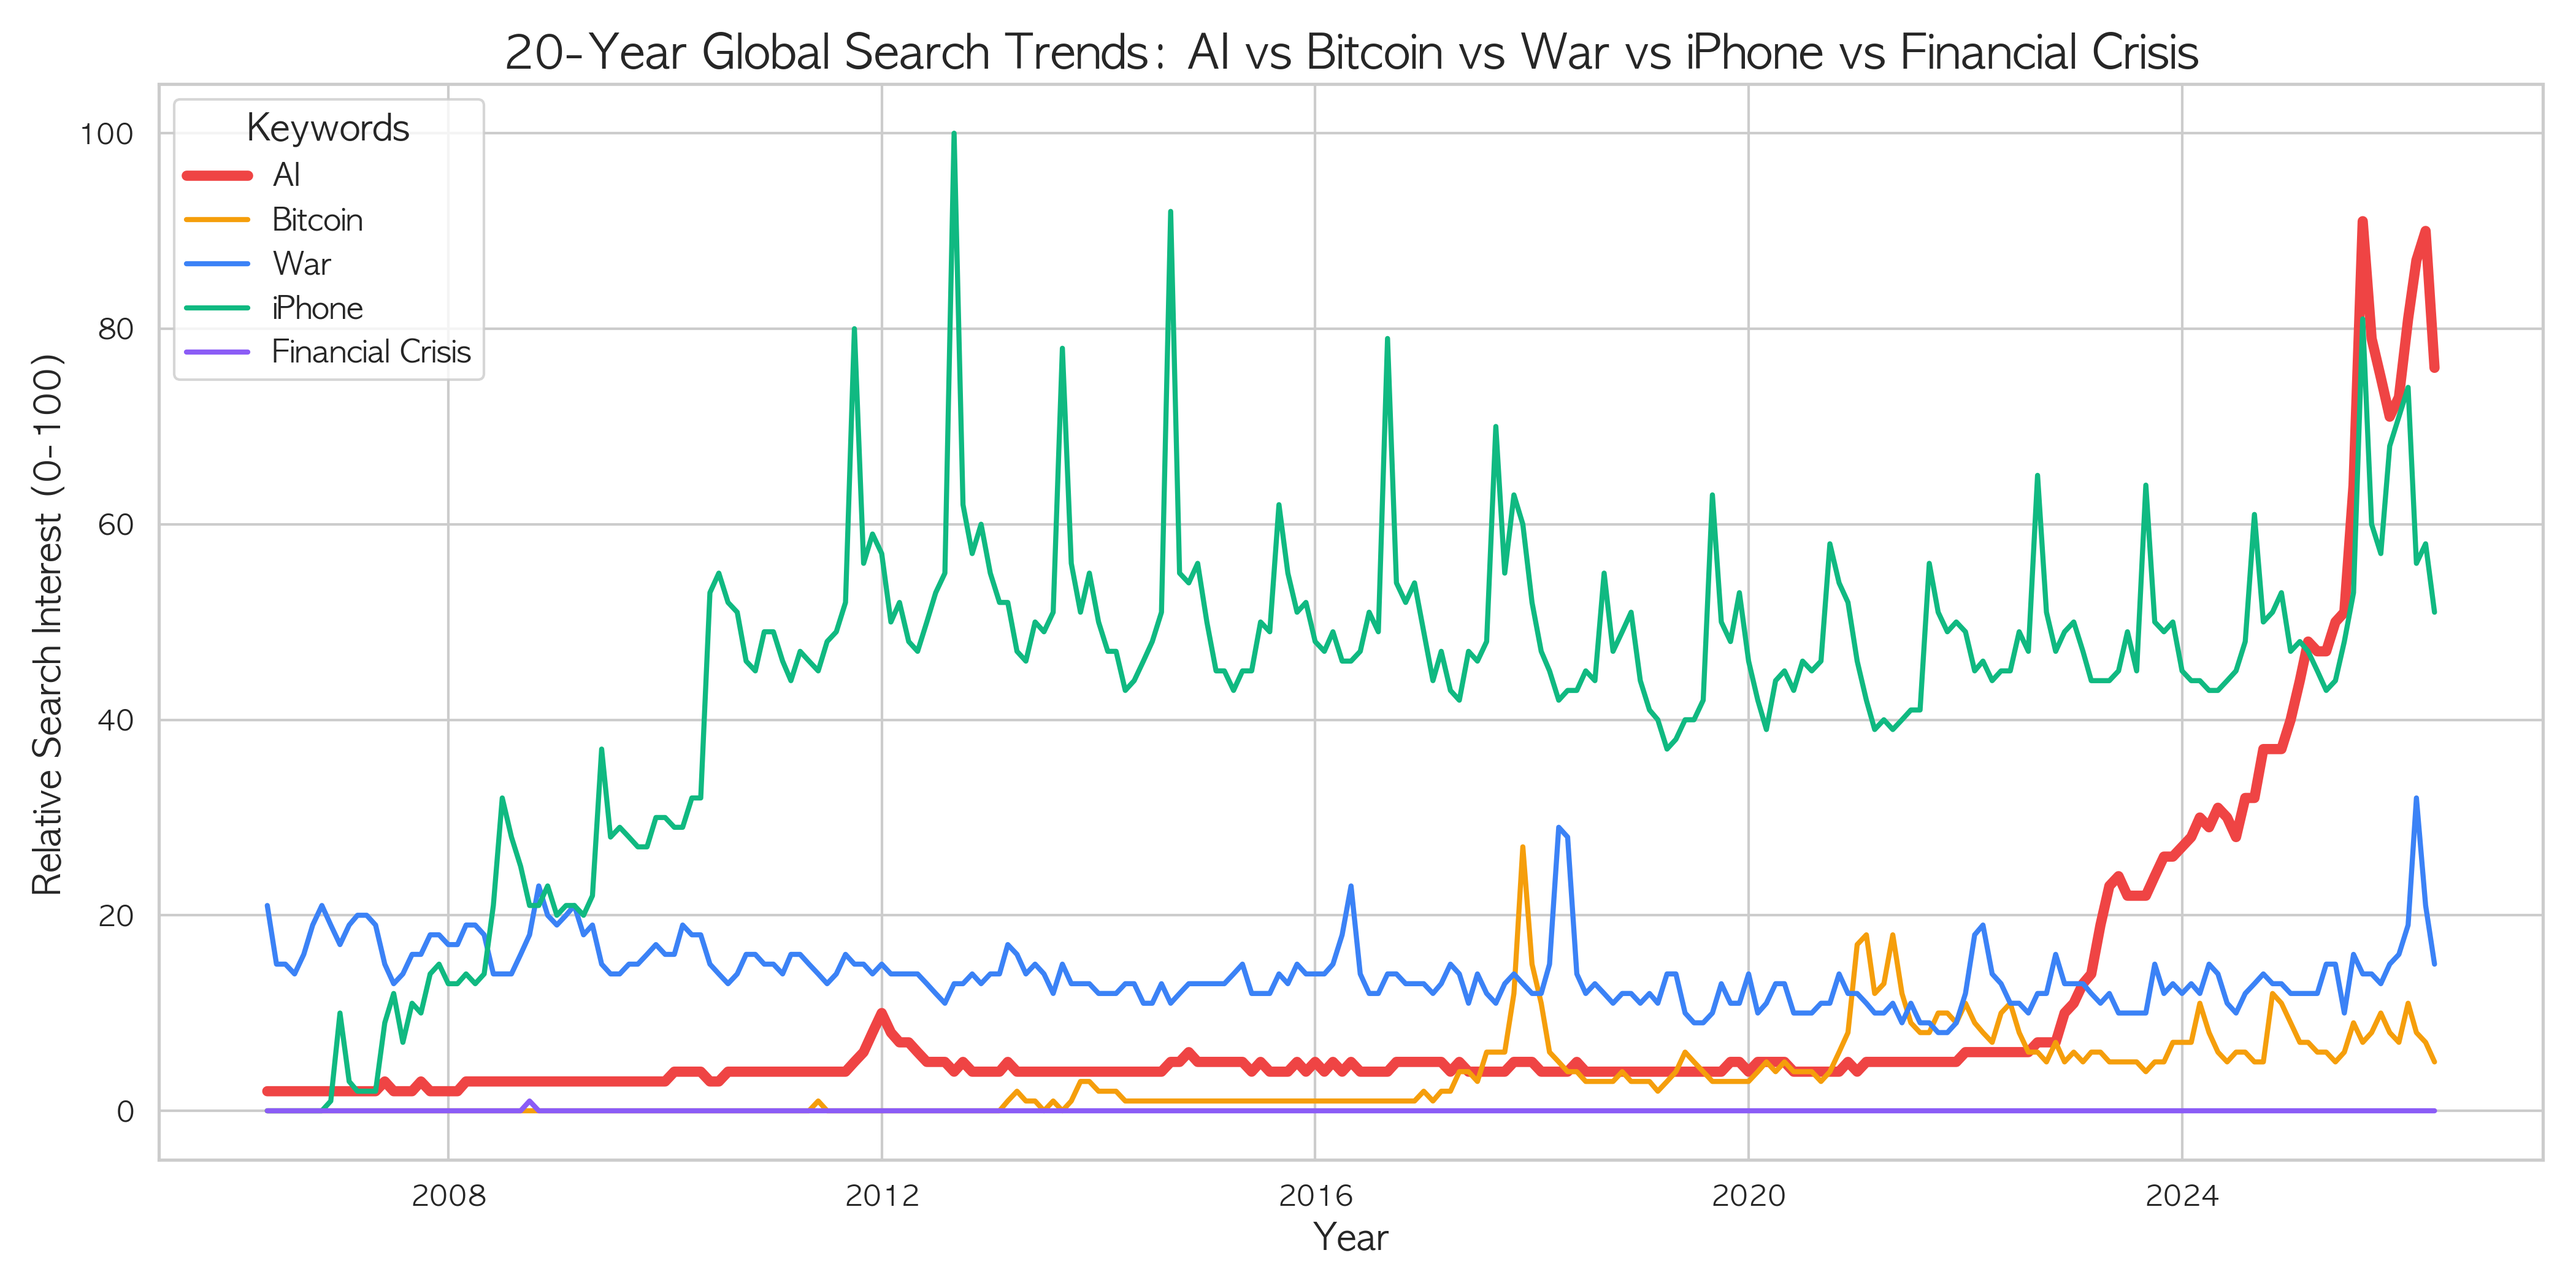
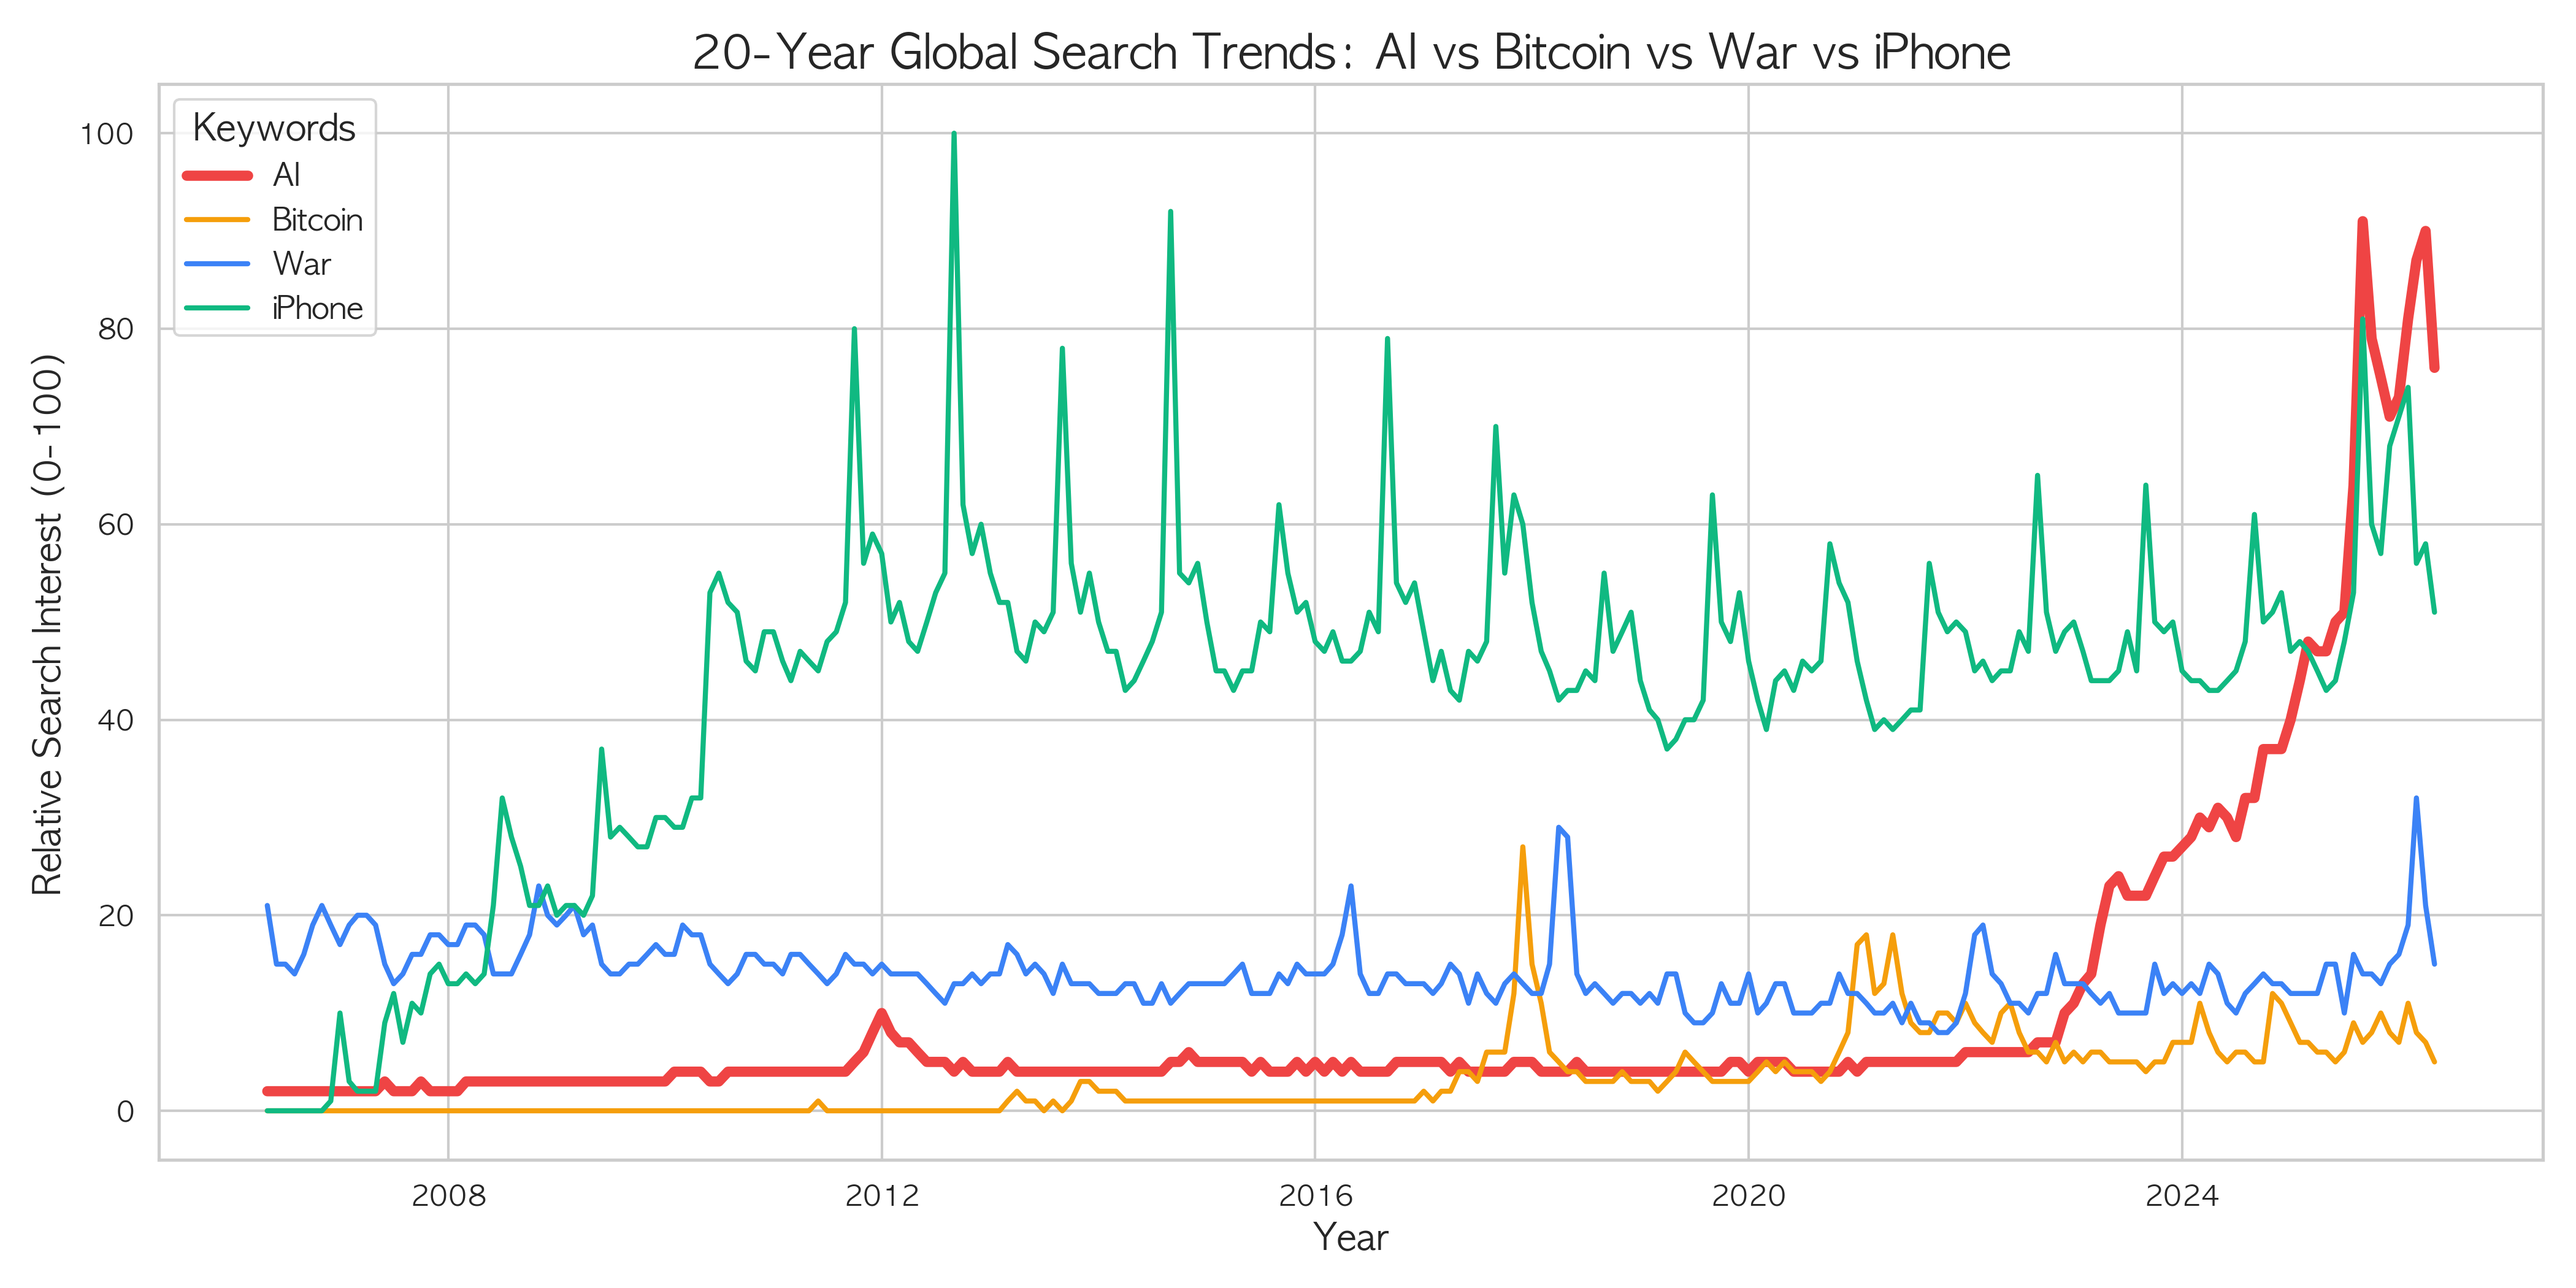
fix: remove financial crisis from google trends chart and markdown

diff --git a/scratch/plot_user_csv.py b/scratch/plot_user_csv.py
@@ -15,6 +15,9 @@ df.columns = ['Date', 'AI', 'Bitcoin', 'War', 'iPhone', 'Financial Crisis']
 df['Date'] = pd.to_datetime(df['Date'])
 df.set_index('Date', inplace=True)
 
+# Drop Financial Crisis
+df = df.drop(columns=['Financial Crisis'])
+
 # Replace any '<1' with 0.5 and convert to numeric
 for col in df.columns:
     if df[col].dtype == object:
@@ -30,8 +33,7 @@ colors = {
     'AI': '#ef4444',            # Red
     'Bitcoin': '#f59e0b',       # Orange
     'War': '#3b82f6',           # Blue
-    'iPhone': '#10b981',        # Green
-    'Financial Crisis': '#8b5cf6' # Purple
+    'iPhone': '#10b981'         # Green
 }
 
 for col in df.columns:
@@ -39,7 +41,7 @@ for col in df.columns:
     color = colors.get(col, '#999999')
     plt.plot(df.index, df[col], label=col, linewidth=linewidth, color=color)
 
-plt.title('20-Year Global Search Trends: AI vs Bitcoin vs War vs iPhone vs Financial Crisis', fontsize=18, fontweight='bold')
+plt.title('20-Year Global Search Trends: AI vs Bitcoin vs War vs iPhone', fontsize=18, fontweight='bold')
 plt.xlabel('Year', fontsize=14)
 plt.ylabel('Relative Search Interest (0-100)', fontsize=14)
 plt.legend(title='Keywords', fontsize=12, title_fontsize=14)

diff --git a/content/posts/AI Learnings/2026-05-07-building-automated-ai-blog-pipeline.md b/content/posts/AI Learnings/2026-05-07-building-automated-ai-blog-pipeline.md
@@ -9,8 +9,8 @@ category: 'AI Learnings'
 하루가 다르게 쏟아지는 AI 관련 뉴스는 트렌드를 따라가기가 벅찹니다.
 AI 시대에 적응하기 위해 제가 배워야 할 것들도 급속히 늘어나고 있습니다.
 
-![Google Trends: 20-Year Global Search Interest (AI, Bitcoin, War, iPhone, Financial Crisis)](/images/posts/google-trends-mega-20yrs.png)
-*지난 20년(2006~2026)간 글로벌 구글 트렌드 검색량 추이: 전쟁(War), 아이폰(iPhone) 혁명, 글로벌 금융위기(Financial Crisis), 그리고 비트코인(Bitcoin) 붐과 비교해 보더라도 최근 AI가 얼마나 거대한 패러다임 전환을 이끌고 있는지 한눈에 확인할 수 있습니다.*
+![Google Trends: 20-Year Global Search Interest (AI, Bitcoin, War, iPhone)](/images/posts/google-trends-mega-20yrs.png)
+*지난 20년(2006~2026)간 글로벌 구글 트렌드 검색량 추이: 전쟁(War), 스마트폰 혁명의 상징인 아이폰(iPhone), 그리고 비트코인(Bitcoin) 붐과 비교해 보더라도 최근 AI가 얼마나 거대한 패러다임 전환을 이끌고 있는지 한눈에 확인할 수 있습니다.*
 
 제 바이브 코딩 도전기 2탄은, AI 뉴스들과 제가 배운 것 + 배워야 하는 것들을 주제로, 기사 수집부터 심층 분석, 마크다운 포스트 작성, 그리고 블로그 배포까지 자동화한 **AI 자동 블로그** 로 정했습니다.
 
